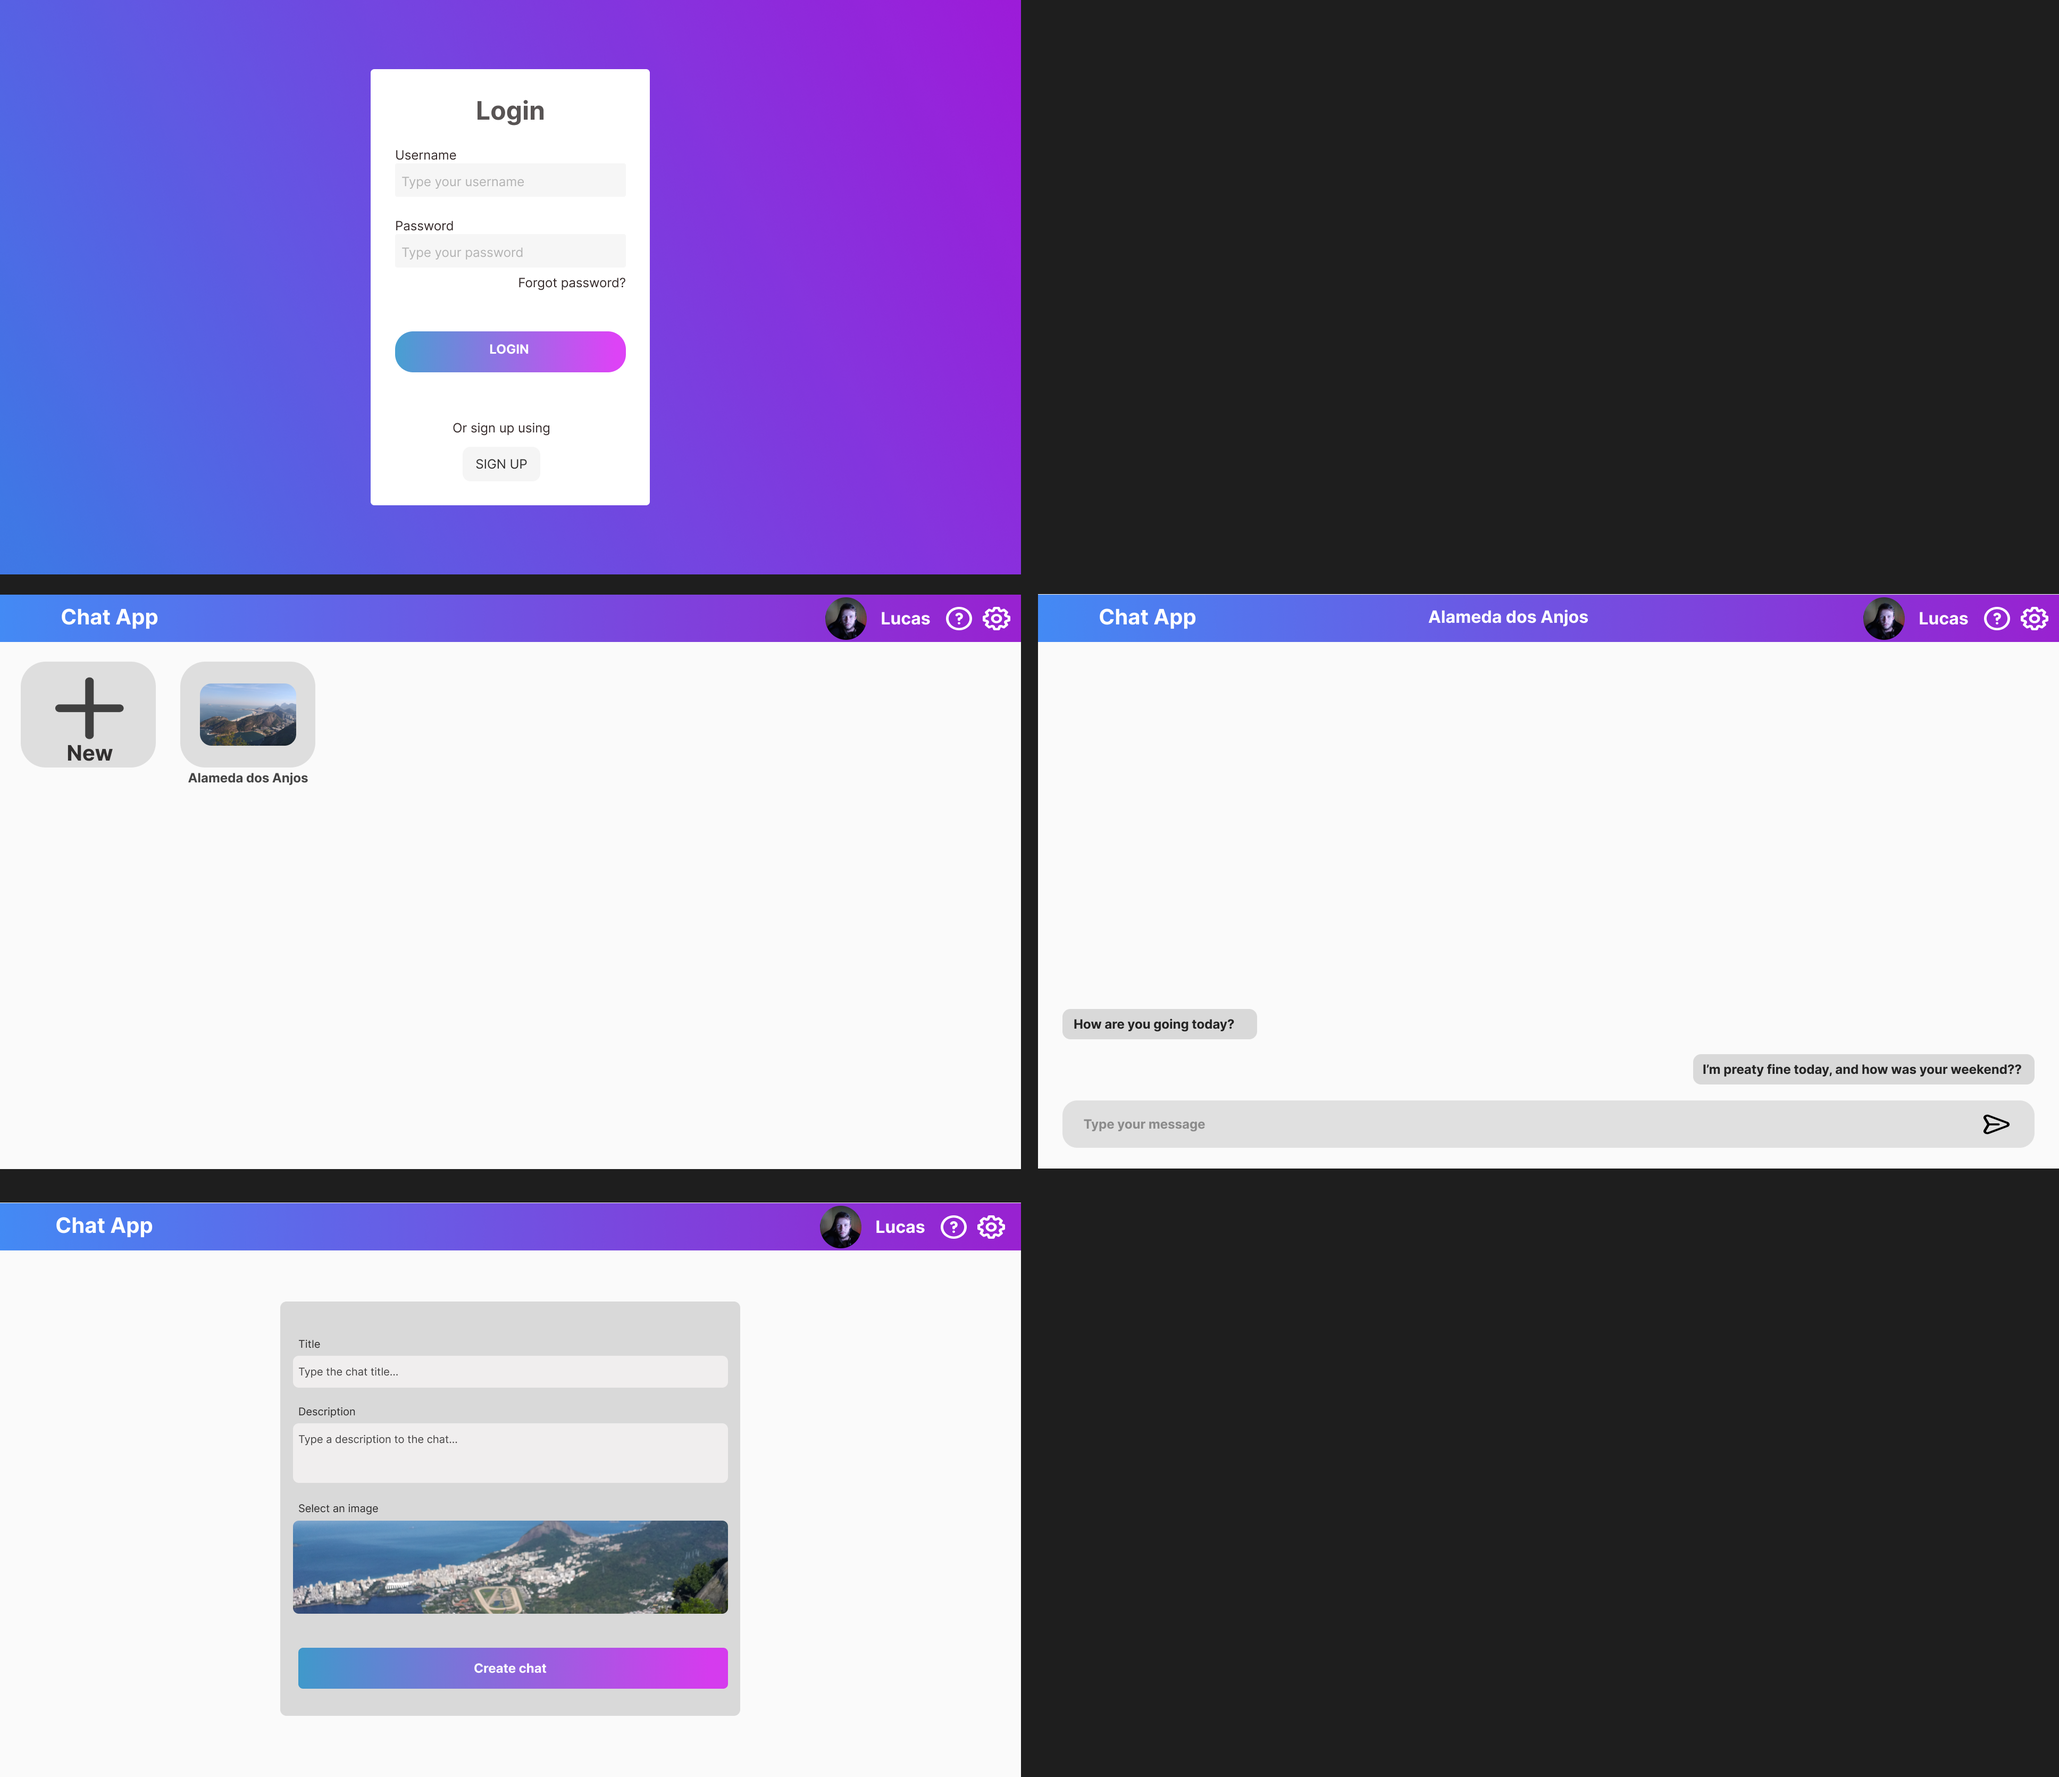
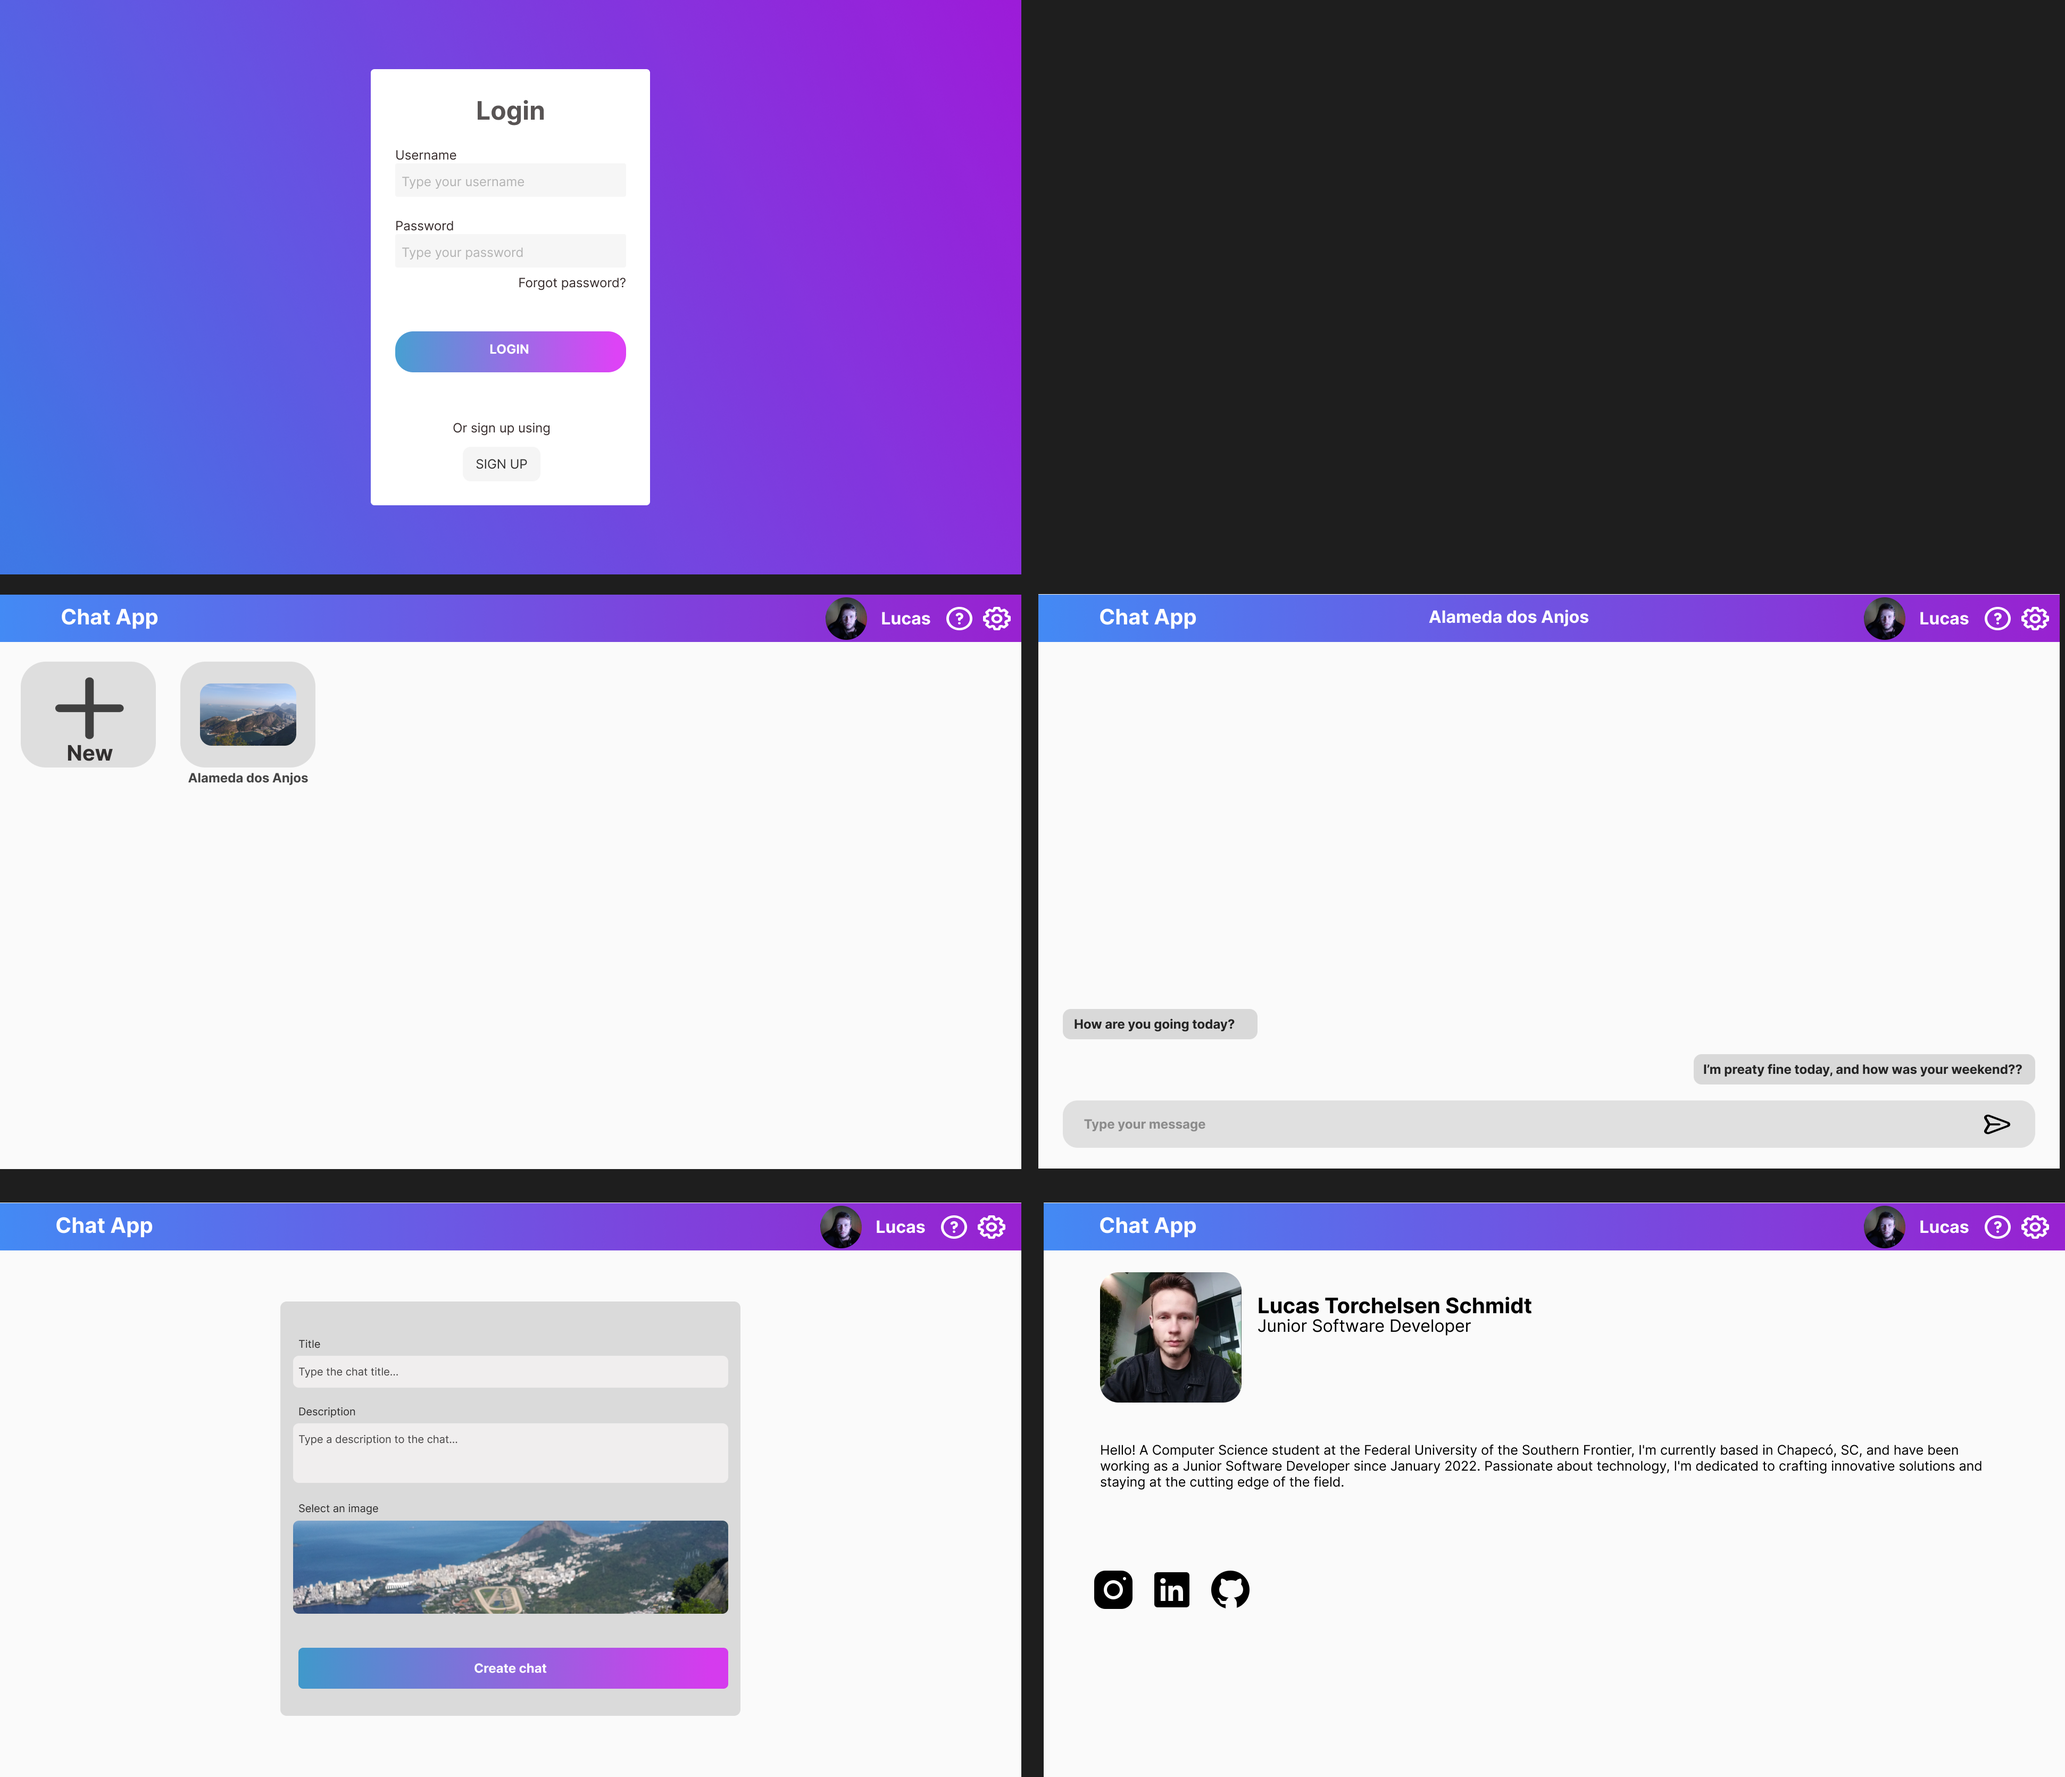
I finished to implement the about page.

diff --git a/public/css/about.css b/public/css/about.css
@@ -1,0 +1,37 @@
+.title_container {
+    width: calc(100% - 45px);
+    height: 180px;
+    display: flex;
+    padding: 15px 30px;
+}
+
+
+.title_container img{
+    border-radius: 35px;
+}
+
+.title_informations {
+    margin: 20px;
+}
+
+.title_informations p {
+    font-size: 19px;
+}
+
+.text_container {
+    width: 85%;
+    padding: 15px 30px;
+    margin-top: 60px;
+}
+
+.buttons_container{
+    width: 85%;
+    padding: 15px 20px;
+    margin-top: 60px;
+}
+
+.buttons_container img{
+    width: 70px;
+    height: 70px;
+    margin-right: 15px;
+}
